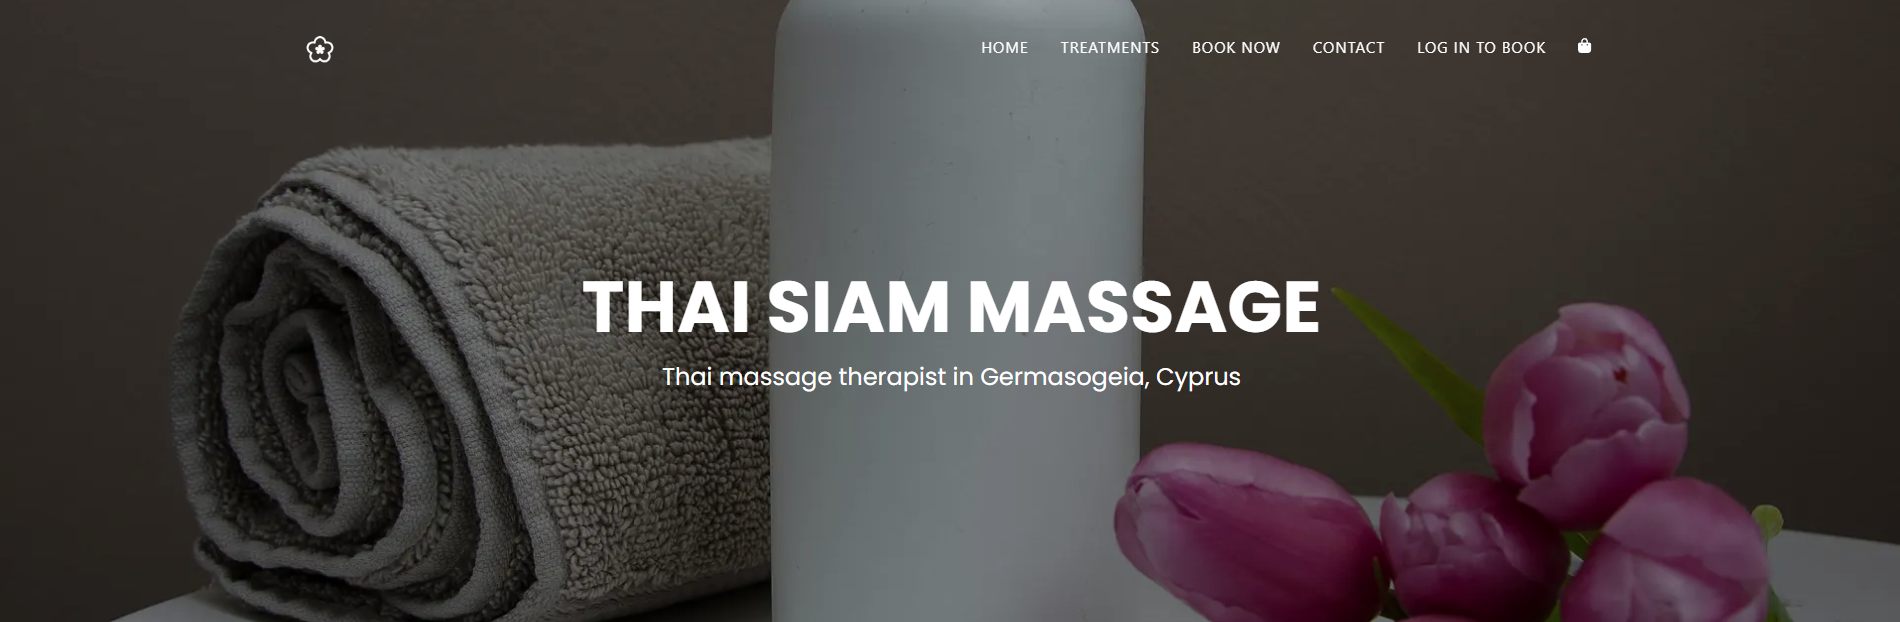
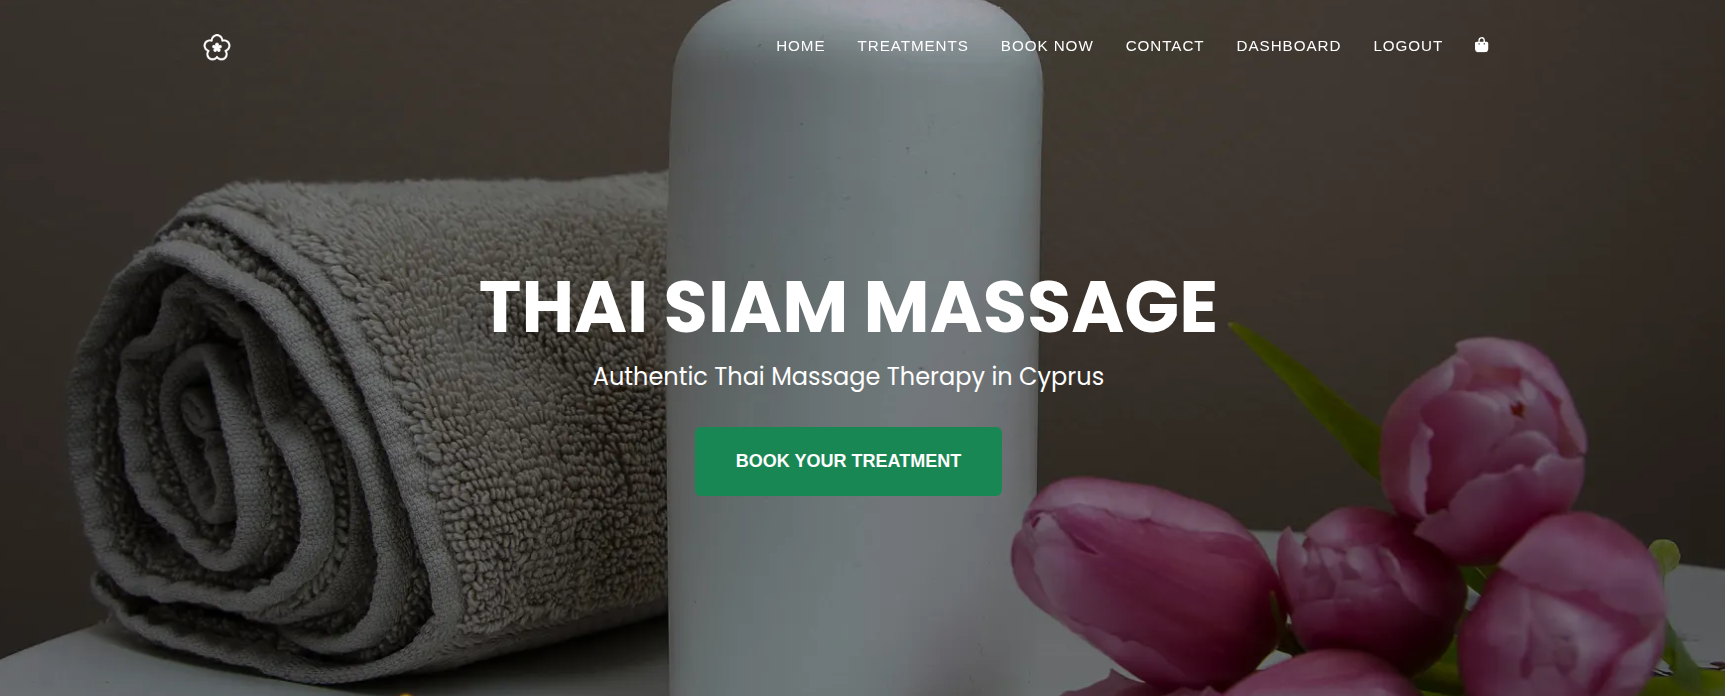
Added Updated Readme file with new UI and Functionality changes

Changed region(s): [[0.0, 0.0, 1.0, 1.0], [0.1229, 0.0611, 0.1843, 0.0916]]

diff --git a/README.md b/README.md
@@ -158,6 +158,7 @@ This project not only demonstrates my ability to integrate multiple technologies
 ## Imagery
 <div align="center"> 
     <img src="readme-images/imagery.png" alt="Imagery">
+    <img src="readme-images/photo-collage.png" alt="Imagery">
 </div> 
 
 - These are the photos I used for my website that all are copyright free.
@@ -246,7 +247,31 @@ This project not only demonstrates my ability to integrate multiple technologies
 </div> 
 
 - I added this text to make the front page be attractive to the eye, whilst also been business specific.
-- Knowing that there is no background image, I wanted to add text to it to draw people in.
+- I designed some icons to looks more professional and nice UI.
+
+
+<div align="center"> 
+    <img src="readme-images/services-section.png" alt="Welcome Section">
+</div> 
+
+- I added this section to merketing purpose, the main purpose of this section is to looks like more professional.
+- I found only these 3 type, so I added those with appropriate images.
+
+
+<div align="center"> 
+    <img src="readme-images/why-choose-us.png" alt="Welcome Section">
+</div> 
+
+- I added this section to knowing users why they should booking treatment from here.
+- I added some key points for grab attention.
+
+
+<div align="center"> 
+    <img src="readme-images/pricing.png" alt="Welcome Section">
+</div> 
+
+- I added this section to knowing users a pricing overview of a typical therapy.
+- I highlighted middle one so they consider booking that one.
 
 
 <div align="center"> 
@@ -255,6 +280,15 @@ This project not only demonstrates my ability to integrate multiple technologies
 
 - I created a section where people can find our place easily.
 - It gives the end user another direct link into the Booking page.
+
+
+<div align="center"> 
+    <img src="readme-images/review-and-next.png" alt="Our Information">
+</div> 
+
+- I added a review section for customer trust.
+- It gives the end user an idea so he/she consider to book.
+- And after that I put very big 2 button so now he/she can take a dicission what to do.
 
 
 ## Treatments
@@ -304,6 +338,7 @@ This project not only demonstrates my ability to integrate multiple technologies
 ## Dashboard
 - Created the dashbaord for multiple roles of user
 - Superuser can create, view, edit and delete treatments
+- Superuser also can send personalized email as newsletter with quotation. The email will be sent to all user who has subscribed.
 - Site user wil see their bookings.
 - If there is no booking it's just empty with some messages.
 - Dashboard for SUPER USER
@@ -321,6 +356,7 @@ This project not only demonstrates my ability to integrate multiple technologies
 ## Bag
 <div align="center"> 
     <img src="readme-images/bag.png" alt="Bag">
+    <img src="readme-images/bag2.png" alt="Bag">
 </div>
 
 - User can edit or remove treatments from the bag
@@ -354,6 +390,23 @@ This project not only demonstrates my ability to integrate multiple technologies
 
 - User can send us messages through this form that will be saved to the database
 - User's message will send to the owner's email
+
+
+## Send Newsletter
+<div align="center"> 
+    <img src="readme-images/send-newsletter.png" alt="Contact us">
+</div> 
+
+- Superuser can send newsletter with a treatment to all users who subscribed to newsletter.
+- Newsletter will send to the owner's email
+
+
+## Unsubscribe
+<div align="center"> 
+    <img src="readme-images/unsubscribe.png" alt="Contact us">
+</div> 
+
+- User can unsubscribe from getting email
 
 
 ### Reset Password
